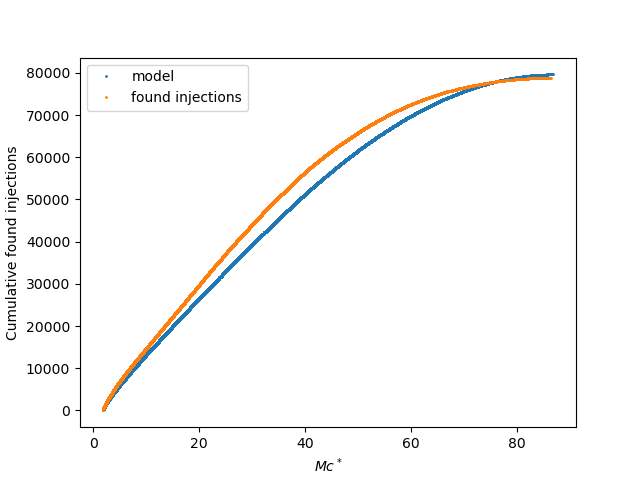
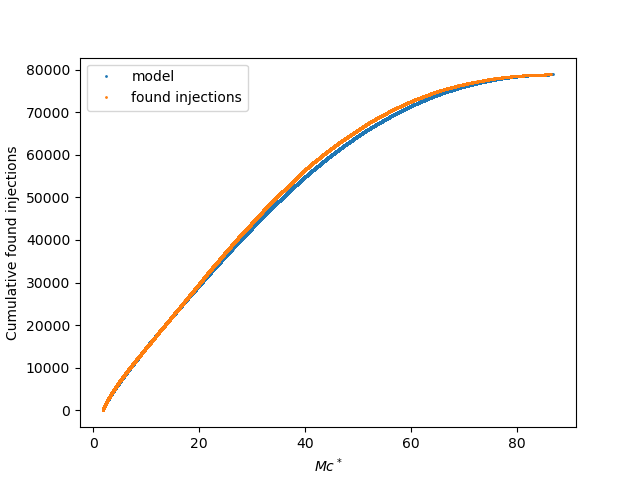
joint optimization

diff --git a/class_found_inj_general.py b/class_found_inj_general.py
@@ -117,11 +117,18 @@ class Found_injections:
         
         self.interp_z = interpolate.interp1d(new_dL, new_z)
         
+        self.gamma_opt = -0.02726
+        self.delta_opt = 0.13166
+        self.emax_opt = 0.79928
+        
+        self.dmid_params_names = {'Dmid_mchirp': 'cte', 'Dmid_mchirp_expansion': ['cte', 'a20', 'a01', 'a21']}
+        
         print('finished initializing')
     
     #now we define methods for this class
     
-    def sigmoid(self, dL, dLmid, gamma = -0.02726, delta = 0.13166, emax = 0.79928, alpha = 2.05):
+    #def sigmoid(self, dL, dLmid, gamma = -0.23168, delta = 0.16617, emax = 0.7795166, alpha = 2.05):
+    def sigmoid(self, dL, dLmid, gamma = None, delta = None, emax = None, alpha = 2.05):
         """
         Sigmoid function used to estime the probability of detection of bbh events
 
@@ -139,6 +146,12 @@ class Found_injections:
         array of detection probability.
 
         """
+        if gamma == None : gamma = self.gamma_opt
+        if delta == None : delta = self.delta_opt
+        if emax == None : emax = self.emax_opt
+        
+        #print(gamma)
+        
         frac = dL / dLmid
         denom = 1. + frac ** alpha * \
             np.exp(gamma * (frac - 1.) + delta * (frac**2 - 1.))
@@ -185,7 +198,7 @@ class Found_injections:
         Dmid(m1,m2) in the detector's frame
 
         """
-        cte , a_20, a_01, a_22 = params[0], params[1], params[2], params[3]
+        cte , a_20, a_01, a_21 = params[0], params[1], params[2], params[3]
         
         m1_det = m1 * (1 + z) 
         m2_det = m2 * (1 + z)
@@ -194,7 +207,7 @@ class Found_injections:
         
         Mc = (m1_det * m2_det)**(3/5) / (m1_det + m2_det)**(1/5)
         
-        pol = cte *(1+ a_20 * M**2 / 2 + a_01 * (1 - 4*eta) + a_22 * M**2 * (1 - 4*eta)**2 / 4)
+        pol = cte *(1+ a_20 * M**2 / 2 + a_01 * (1 - 4*eta) + a_21 * M**2 * (1 - 4*eta) / 2)
         
         return pol * Mc**(5/6)
     
@@ -245,19 +258,19 @@ class Found_injections:
         
         # we try this sencond method for Nexp
         
-        DMID = getattr(Found_injections, dmid_fun)
+        dmid = getattr(Found_injections, dmid_fun)
         
         if shape_params is not None:
             gamma, delta, emax = shape_params[0], shape_params[1], shape_params[2]
-            Nexp = np.sum(self.sigmoid(self.dL, DMID(self, self.m1, self.m2, self.z, params), gamma, delta, emax))
+            Nexp = np.sum(self.sigmoid(self.dL, dmid(self, self.m1, self.m2, self.z, params), gamma, delta, emax))
             
         else:
-            Nexp = np.sum(self.sigmoid(self.dL, DMID(self, self.m1, self.m2, self.z, params)))
+            Nexp = np.sum(self.sigmoid(self.dL, dmid(self, self.m1, self.m2, self.z, params)))
             
-        print(Nexp)
+        #print(Nexp)
         return Nexp
         
-    def Lambda(self, dmid_fun, params, shape_params = None):
+    def lamda(self, dmid_fun, params, shape_params = None):
         """
         Number density at found injections
 
@@ -277,16 +290,16 @@ class Found_injections:
         m1 = self.m1[self.found_any]
         m2 = self.m2[self.found_any]
         
-        DMID = getattr(Found_injections, dmid_fun)
+        dmid = getattr(Found_injections, dmid_fun)
         
         if shape_params is not None:
             gamma, delta, emax = shape_params[0], shape_params[1], shape_params[2]
-            Lambda = self.sigmoid(dL, DMID(self, m1, m2, z, params), gamma, delta, emax) * m_pdf * dL_pdf * self.Ntotal
+            lamda = self.sigmoid(dL, dmid(self, m1, m2, z, params), gamma, delta, emax) * m_pdf * dL_pdf * self.Ntotal
         
         else:
-            Lambda = self.sigmoid(dL, DMID(self, m1, m2, z, params)) * m_pdf * dL_pdf * self.Ntotal
+            lamda = self.sigmoid(dL, dmid(self, m1, m2, z, params)) * m_pdf * dL_pdf * self.Ntotal
         
-        return Lambda
+        return lamda
     
     def logL(self, dmid_fun, dmid_params, shape_params = None):
         """
@@ -303,13 +316,12 @@ class Found_injections:
             DESCRIPTION.
 
         """
-        params = np.exp(dmid_params) 
         
         if shape_params is not None:
             shape_params = [shape_params[0], shape_params[1], shape_params[2]]
             
-        lnL = -self.Nexp(dmid_fun, params, shape_params) + np.sum(np.log(self.Lambda(dmid_fun, params, shape_params)))
-        print(lnL)
+        lnL = -self.Nexp(dmid_fun, dmid_params, shape_params) + np.sum(np.log(self.lamda(dmid_fun, dmid_params, shape_params)))
+        #print(lnL)
         return lnL
         
     
@@ -329,15 +341,15 @@ class Found_injections:
 
         """
         res = opt.minimize(fun=lambda in_param: -self.logL(dmid_fun, in_param), 
-                           x0=np.array([np.log(params_guess)]), 
+                           x0=np.array([params_guess]), 
                            args=(), 
                            method=methods)
         
-        params_res = np.exp(res.x) 
+        params_res = res.x
         min_likelihood = res.fun                
         return params_res, -min_likelihood
     
-    def MLE_shape(self, dmid_fun, params_dmid, params_shape_guess, methods):
+    def MLE_shape(self, dmid_fun, params_dmid, params_shape_guess, methods, update = False):
         """
         minimization of -logL 
 
@@ -359,15 +371,57 @@ class Found_injections:
                            args=(), 
                            method=methods)
         
-        gamma, delta, emax = res.x 
-        min_likelihood = res.fun                
+        gamma, delta, emax = res.x
+        min_likelihood = res.fun  
+        
+        if update: self.gamma_opt, self.delta_opt, self.emax_opt = gamma, delta, emax 
+
         return gamma, delta, emax, -min_likelihood
     
+    def joint_MLE(self, dmid_fun, params_dmid, params_shape, methods, precision = 1e-2):
+        
+        total_lnL = np.zeros([1])
+        all_gamma = []
+        all_delta = []
+        all_emax = []
+        all_dmid_params = np.zeros([1,len(params_dmid)])
+        
+        for i in range(0, 10000):
+            
+            params_dmid, maxL_1 = data.MLE_dmid(dmid_fun, params_dmid, methods)
+            all_dmid_params = np.vstack([all_dmid_params, params_dmid])
+            
+            gamma_opt, delta_opt, emax_opt, maxL_2 = data.MLE_shape(dmid_fun, params_dmid, params_shape, methods, update = True)
+            all_gamma.append(gamma_opt); all_delta.append(delta_opt)
+            all_emax.append(emax_opt); total_lnL = np.append(total_lnL, maxL_2)
+            
+            params_shape = [gamma_opt, delta_opt, emax_opt]
+            
+            print('\n', maxL_2)
+            print(np.abs( total_lnL[i+1] - total_lnL[i] ))
+            
+            if np.abs( total_lnL[i+1] - total_lnL[i] ) <= precision : break
+        
+        print('\nNumber of needed iterations with precision <= %s : %s (+1 since it starts on 0)' %(precision, i))
+
+        total_lnL = np.delete(total_lnL, 0)
+        shape_results = np.column_stack((all_gamma, all_delta, all_emax, total_lnL))
+        shape_header = 'gamma_opt, delta_opt, emax_opt, maxL'
+        np.savetxt(f'{dmid_fun}/joint_fit_shape.dat', shape_results, header = shape_header, fmt='%s')
+        
+        all_dmid_params = np.delete(all_dmid_params, 0, axis=0)
+        dmid_results = np.column_stack((all_dmid_params, total_lnL))
+        dmid_header = f'{self.dmid_params_names[dmid_fun]} , maxL'
+        np.savetxt(f'{dmid_fun}/joint_fit_dmid.dat', dmid_results, header = dmid_header, fmt='%s')
+        
+        return
+
+
     def cumulative_dist(self, dmid_fun, params, var = 'dL'):
         #params = self.MLE(cte_guess, a20_guess, a01_guess, methods='Nelder-Mead')[:-1]
         #params = 79.70666689915684
         
-        DMID = getattr(Found_injections, dmid_fun)
+        dmid = getattr(Found_injections, dmid_fun)
         dic = {'dL': self.dL, 'Mc': self.Mc, 'Mtot': self.Mtot, 'eta': self.eta}
            
         #cumulative distribution over the desired variable
@@ -377,7 +431,7 @@ class Found_injections:
         m1o = self.m1[indexo]
         m2o = self.m2[indexo]
         zo = self.z[indexo]
-        cmd = np.cumsum(self.sigmoid(dLo, DMID(self, m1o, m2o, zo, params)))
+        cmd = np.cumsum(self.sigmoid(dLo, dmid(self, m1o, m2o, zo, params)))
         
         var_found = dic[var][self.found_any]
         indexo_found = np.argsort(var_found)
@@ -385,7 +439,7 @@ class Found_injections:
         
         real_found_inj = np.arange(len(var_foundo))+1
         
-        cdf = lambda var_i : np.cumsum(self.sigmoid(self.dL[var_i], DMID(self, self.m1[var_i], self.m2[var_i], self.z[var_i], params)))
+        cdf = lambda var_i : np.cumsum(self.sigmoid(self.dL[var_i], dmid(self, self.m1[var_i], self.m2[var_i], self.z[var_i], params)))
         
         plt.figure()
         plt.plot(varo, cmd, '.', markersize=2, label='model')
@@ -398,10 +452,10 @@ class Found_injections:
         plt.savefig(name, format='png')
         
         
-        # if var=='dL':
-        #     plt.figure()
-        #     plt.plot(var_foundo, real_found_inj/len(var_foundo))
-        #     plt.plot(varo, cdf(indexo)/len(varo))
+        if var=='dL':
+            plt.figure()
+            plt.plot(var_foundo, real_found_inj/len(var_foundo))
+            plt.plot(varo, cdf(indexo)/len(varo))
             
         return kstest(real_found_inj, cdf(indexo))
 
@@ -427,52 +481,72 @@ except OSError as e:
     if e.errno != errno.EEXIST:
         raise
 
-cte_guess = 70
-a20_guess= 0.05
-a01_guess= 0.05
-a22_guess = 0.5
+cte_guess = 99
+a20_guess= 0.0001
+a01_guess= 0.3
+a21_guess = -0.0001
+#a22_guess = -0.0002
 
-gamma_guess = -0.1
-delta_guess = 0.1
-emax_guess = 1
+gamma_guess = -0.02726
+delta_guess = 0.13166
+emax_guess = 0.79928
 
 shape_guess = [gamma_guess, delta_guess, emax_guess]
 
 
-params_guess = {'Dmid_mchirp': cte_guess, 'Dmid_mchirp_expansion': [cte_guess, a20_guess, a01_guess, a22_guess]}
-params_names = {'Dmid_mchirp': 'cte', 'Dmid_mchirp_expansion': ['cte', 'a20', 'a01', 'a22']}
+params_guess = {'Dmid_mchirp': cte_guess, 'Dmid_mchirp_expansion': [cte_guess, a20_guess, a01_guess, a21_guess]}
+params_names = {'Dmid_mchirp': 'cte', 'Dmid_mchirp_expansion': ['cte', 'a20', 'a01', 'a21']}
+
+
+########## MLE DMID ##########
 
 # params_opt, maxL = data.MLE_dmid(dmid_fun, params_guess[dmid_fun], methods='Nelder-Mead')
 # print(params_opt)
 
-# #%%
 # results = np.hstack((params_opt, maxL))
 # header = f'{params_names[dmid_fun]} , maxL'
 # np.savetxt(f'{dmid_fun}/dmid(m)_results_2method.dat', [results], header = header, fmt='%s')
 
-params_dmid = np.loadtxt(f'{dmid_fun}/dmid(m)_results_2method.dat')[:-1]
+# params_dmid = np.loadtxt(f'{dmid_fun}/dmid(m)_results_2method.dat')[:-1]
 
-gamma_opt, delta_opt, emax_opt, maxL = data.MLE_shape(dmid_fun, params_dmid, shape_guess, methods='Nelder-Mead')
-print(gamma_opt, delta_opt, emax_opt)
+########## MLE SHAPE ##########
 
-results = np.column_stack((gamma_opt, delta_opt, emax_opt, maxL))
-header = 'gamma_opt, delta_opt, emax_opt, maxL'
-np.savetxt(f'{dmid_fun}/shape/opt_shape_params.dat', results, header = header, fmt='%s')
+# gamma_opt, delta_opt, emax_opt, maxL = data.MLE_shape(dmid_fun, params_dmid, shape_guess, methods='Nelder-Mead', update = True)
+# print(gamma_opt, delta_opt, emax_opt)
 
-# nexp = data.Nexp_MC(dmid_fun, 1000000, params_dmid)
-# print(nexp)
+# results = np.column_stack((gamma_opt, delta_opt, emax_opt, maxL))
+# header = 'gamma_opt, delta_opt, emax_opt, maxL'
+# np.savetxt(f'{dmid_fun}/shape/opt_shape_params.dat', results, header = header, fmt='%s')
 
-# stat_Mtot, pvalue_Mtot = data.cumulative_dist(dmid_fun, params_dmid, 'Mtot')
-# stat_Mc, pvalue_Mc = data.cumulative_dist(dmid_fun, params_dmid, 'Mc')
-# stat_eta, pvalue_eta = data.cumulative_dist(dmid_fun, params_dmid, 'eta') 
-# stat_dL, pvalue_dL = data.cumulative_dist(dmid_fun, params_dmid, 'dL')
+#gamma_opt, delta_opt, emax_opt = np.loadtxt(f'{dmid_fun}/shape/opt_shape_params.dat')[:-1]
 
-# print('dL KStest: statistic = %s , pvalue = %s' %(stat_dL, pvalue_dL))
-# print('Mtot KStest: statistic = %s , pvalue = %s' %(stat_Mtot, pvalue_Mtot))
-# print('Mc KStest: statistic = %s , pvalue = %s' %(stat_Mc, pvalue_Mc))
-# print('eta KStest: statistic = %s , pvalue = %s' %(stat_eta, pvalue_eta))
+data.joint_MLE(dmid_fun, params_guess[dmid_fun], shape_guess, methods='Nelder-Mead', precision = 1e-2)
 
-# #%%
+params_dmid = np.loadtxt(f'{dmid_fun}/joint_fit_dmid.dat')[-1, :-1]
+gamma_opt, delta_opt, emax_opt = data.gamma_opt, data.delta_opt, data.emax_opt
+
+print('\nparams_dmid:\n', params_dmid)
+print('\ngamma, delta, emax:\n', gamma_opt, delta_opt, emax_opt)
+
+########## KS TEST ##########
+
+plt.close('all')
+
+stat_Mtot, pvalue_Mtot = data.cumulative_dist(dmid_fun, params_dmid, 'Mtot')
+stat_Mc, pvalue_Mc = data.cumulative_dist(dmid_fun, params_dmid, 'Mc')
+stat_eta, pvalue_eta = data.cumulative_dist(dmid_fun, params_dmid, 'eta') 
+stat_dL, pvalue_dL = data.cumulative_dist(dmid_fun, params_dmid, 'dL')
+
+print('\ndL KStest: statistic = %s , pvalue = %s' %(stat_dL, pvalue_dL))
+print('Mtot KStest: statistic = %s , pvalue = %s' %(stat_Mtot, pvalue_Mtot))
+print('Mc KStest: statistic = %s , pvalue = %s' %(stat_Mc, pvalue_Mc))
+print('eta KStest: statistic = %s , pvalue = %s' %(stat_eta, pvalue_eta))
+
+
+######## PLOTS TO CHECK DMID DEPENDANCE ON MASS PARAMETERS (from binned analysis) ########
+
+# plt.close('all')
+
 # nbin1 = 14
 # nbin2 = 14
 
@@ -529,8 +603,33 @@ np.savetxt(f'{dmid_fun}/shape/opt_shape_params.dat', results, header = header, f
 # name="dL_joint_fit_results_emax/eta.png"
 # plt.savefig(name, format='png', dpi=1000)
 
-#%%
-plt.close('all')
+# fig = plt.figure()
+# ax=fig.add_subplot(projection='3d')
+
+# ax.scatter(Mtot_plot, eta_plot, dmid_plot/(Mc_plot)**(5/6), c=dmid_plot/(Mc_plot)**(5/6), cmap='viridis', alpha=0.8)
+# ax.set_xlabel('Mtotal ')
+# ax.set_ylabel(r'$\eta$')
+# ax.set_zlabel('dL_mid / Mc^(5/6)')
+# name="dL_joint_fit_results_emax/3D_plot.png"
+# plt.savefig(name, format='png', dpi=1000)
+
+# fig = plt.figure()
+# ax=fig.add_subplot(projection='3d')
+
+# x = Mtot_plot
+# y = eta_plot
+
+# ax.plot_trisurf(x, y, dmid_plot/(Mc_plot)**(5/6), cmap='viridis')
+# ax.set_xlabel('Mtotal ')
+# ax.set_ylabel(r'$\eta$')
+# ax.set_zlabel('dL_mid / Mc^(5/6)')
+# name="dL_joint_fit_results_emax/3D_plot.png"
+# plt.savefig(name, format='png', dpi=1000)
+
+
+###### PLOT TO CHECK EPSILON(DL) WITH OPT PARAMETERS #######
+gamma_opt, delta_opt, emax_opt = np.loadtxt(f'{dmid_fun}/shape/opt_shape_params.dat')[:-1]
+
 plt.figure(figsize=(7,6))
 plt.plot(data.dL, data.sigmoid(data.dL, data.Dmid_mchirp_expansion(data.m1, data.m2, data.z, params_dmid), gamma_opt, delta_opt, emax_opt), '.')
 t = ('gamma = %.3f , delta = %.3f , emax = %.3f' %(gamma_opt, delta_opt, emax_opt) )
